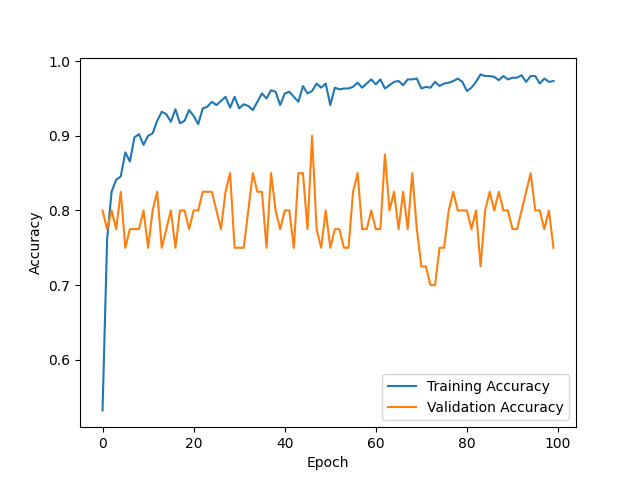
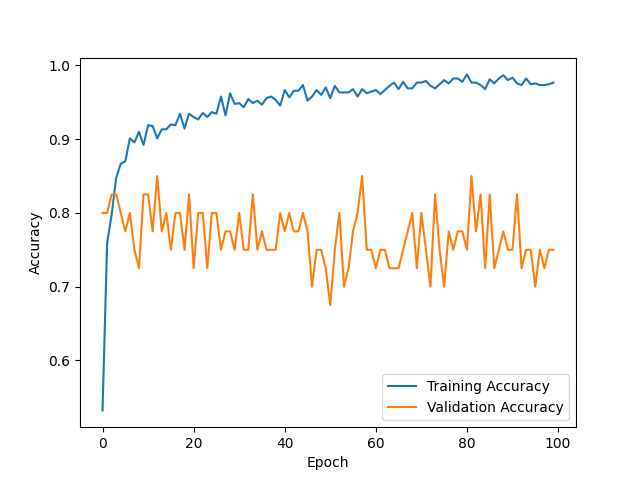
updated models and visualizations

diff --git a/a1_cnn.py b/a1_cnn.py
@@ -4,11 +4,12 @@ import tensorflow as tf
 import tensorflow.keras as kb
 from tensorflow.keras.utils import image_dataset_from_directory
 from tensorflow.keras.models import load_model
-from sklearn.metrics import accuracy_score, confusion_matrix
 from tensorflow.keras.callbacks import EarlyStopping
 from tensorflow.keras.applications import MobileNetV2
 from tensorflow.keras.layers import Input
-
+from sklearn.model_selection import train_test_split
+from sklearn.metrics import accuracy_score, confusion_matrix, classification_report
+from sklearn.utils import class_weight
 import seaborn as sns
 import matplotlib.pyplot as plt
 import os
@@ -19,20 +20,20 @@ warnings.filterwarnings('ignore')
 
 # load train and test datasets
 x_train = image_dataset_from_directory(
-    '/app/rundir/assignment1/jellyfish_dataset/Train_Test_Valid/Train',
+    '/app/rundir/cpsc542_assignment1/jellyfish_dataset/Train_Test_Valid/Train',
     image_size=(128, 128),
     label_mode='int',
     batch_size=32,
     shuffle=True)
 
 x_test = image_dataset_from_directory(
-    '/app/rundir/assignment1/jellyfish_dataset/Train_Test_Valid/test',
+    '/app/rundir/cpsc542_assignment1/jellyfish_dataset/Train_Test_Valid/test',
     image_size=(128, 128),
     label_mode='int',
     batch_size=32,
-    shuffle=True)
+    shuffle=False)
 
-# Data Augmentation
+# data Augmentation
 data_augmentation = tf.keras.Sequential([
     tf.keras.layers.experimental.preprocessing.RandomFlip('horizontal'),
     tf.keras.layers.experimental.preprocessing.RandomRotation(0.2),
@@ -46,15 +47,21 @@ def preprocess_data(x, y):
 x_train = x_train.map(preprocess_data)
 x_test = x_test.map(preprocess_data)
 
+X_train, y_train = np.concatenate([x for x, y in x_train], axis=0), np.concatenate([y for x, y in x_train], axis=0)
+X_test, y_test = np.concatenate([x for x, y in x_test], axis=0), np.concatenate([y for x, y in x_test], axis=0)
+
+# train-test split
+X_train, X_val, y_train, y_val = train_test_split(X_train, y_train, test_size=0.2, random_state=42)
+
 # ----- CNN (Deep Learning Model) -----
 
-# Use MobileNetV2 as base model
+# use MobileNetV2 as base model for transfer learning
 base_model = MobileNetV2(include_top=False, input_tensor=Input(shape=(128, 128, 3)))
 
-# Freeze the layers of the base model
+# freeze the layers of the base model
 base_model.trainable = False
 
-# Add custom layers on top of MobileNetV2
+# add custom layers on top of MobileNetV2
 cnn = kb.Sequential([
     base_model,
     kb.layers.GlobalAveragePooling2D(),
@@ -64,43 +71,93 @@ cnn = kb.Sequential([
     kb.layers.Dense(6, activation='softmax')
 ])
 
-# Compile the model with an initial learning rate
+# compile the model with an initial learning rate
 initial_learning_rate = 0.001
 optimizer = tf.keras.optimizers.Adam(learning_rate=initial_learning_rate)
 cnn.compile(loss="categorical_crossentropy", optimizer=optimizer, metrics=["accuracy"])
 
-# Class Weighting
-# class_weights = {0: 1.0, 1: 1.0, 2: 1.0, 3: 1.0, 4: 1.0, 5: 1.0}
-
-# Train the model with early stopping
-early_stop = EarlyStopping(monitor='val_loss', patience=5, restore_best_weights=True)
+# train the model with early stopping
+# early_stop = EarlyStopping(monitor='val_loss', patience=5, restore_best_weights=True)
+early_stop = EarlyStopping(monitor='val_loss', patience=5)
 history = cnn.fit(x_train, batch_size=32, epochs=100, validation_data=x_test)
 
-# Evaluate the model on the test set
-# test_loss, test_accuracy = cnn.evaluate(x_test)
-# print("CNN Accuracy:", test_accuracy)
-
-# Plot training history
+# plot training history
 plt.plot(history.history['accuracy'], label='Training Accuracy')
 plt.plot(history.history['val_accuracy'], label='Validation Accuracy')
 plt.xlabel('Epoch')
 plt.ylabel('Accuracy')
 plt.legend()
-plt.savefig('accuracy_cnn')
+plt.savefig('visualizations/cnn/accuracy_cnn')
 
 # cnn.save('cnn_trained.h5')
 # cnn = load_model('cnn_trained.h5')
 
-y_pred = cnn.predict(x_test).argmax(axis=1)
-y_true = np.concatenate([y for x, y in x_test], axis=0).argmax(axis=1)
+# confusion matrices
+classes = ['Barrel', 'Blue', 'Compass', 'Lion\'s Mane', 'Mauve Stinger', 'Moon']
 
-# accuracy = accuracy_score(y_true, y_pred)
-# print('CNN Accuracy:', accuracy)
+# training confusion matrix
+y_pred_probs_train = cnn.predict(X_train)
+y_pred_labels_train = np.argmax(y_pred_probs_train, axis=1)
+y_true = np.argmax(y_train, axis=1)
 
-cm = confusion_matrix(y_true, y_pred)
-plt.figure(figsize=(10, 8))
-sns.heatmap(cm, annot=True, cmap='Blues', fmt='g', cbar=False)
+cm = confusion_matrix(y_true, y_pred_labels_train)
+weights = class_weight.compute_sample_weight('balanced', y_true)
+cm_norm = cm.astype('float') / cm.sum(axis=1)[:, np.newaxis]
+
+plt.figure(figsize=(10,8))
+sns.heatmap(cm_norm, annot=True, fmt='.2f', cmap='Blues', xticklabels=classes, yticklabels=classes)
+plt.title('CNN Training Confusion Matrix')
 plt.xlabel('Predicted')
 plt.ylabel('True')
-plt.title('CNN Confusion Matrix for Test Dataset')
-plt.savefig('cm_cnn_test.png')
+plt.savefig('visualizations/cnn/cm_train_cnn.png')
+
+# test confusion matrix
+y_pred_probs_test = cnn.predict(X_test)
+y_pred_labels_test = np.argmax(y_pred_probs_test, axis=1)
+y_true = np.argmax(y_test, axis=1)
+
+cm = confusion_matrix(y_true, y_pred_labels_test)
+weights = class_weight.compute_sample_weight('balanced', y_true)
+cm_norm = cm.astype('float') / cm.sum(axis=1)[:, np.newaxis]
+
+plt.figure(figsize=(10,8))
+sns.heatmap(cm_norm, annot=True, fmt='.2f', cmap='Blues', xticklabels=classes, yticklabels=classes)
+plt.title('CNN Test Confusion Matrix')
+plt.xlabel('Predicted')
+plt.ylabel('True')
+plt.savefig('visualizations/cnn/cm_test_cnn.png')
+
+label_mapping = {
+    0: 'Barrel',
+    1: 'Blue',
+    2: 'Compass',
+    3: 'Lion\'s Mane',
+    4: 'Mauve Stinger',
+    5: 'Moon'
+}
+
+# get some test images
+images, labels = next(iter(x_test))
+images = images * np.max(images) * 255
+
+# make predictions
+predictions = cnn.predict(images)
+
+# visualize predictions
+fig, axes = plt.subplots(nrows=5, ncols=5, figsize=(15, 15),
+    gridspec_kw={'hspace': 0.5, 'wspace': 0.5})
+
+for i, ax in enumerate(axes.flat):
+    # plot image
+    ax.imshow(images[i].numpy().astype('uint8'))
+    ax.axis('off')
+
+    # set title to predicted class and true class using label mapping
+    pred_class = np.argmax(predictions[i])
+    true_class = np.argmax(labels[i])
+    pred_class_name = label_mapping[pred_class]
+    true_class_name = label_mapping[true_class]
+    ax.set_title(f"Pred: {pred_class_name}\nTrue: {true_class_name}",
+        color=("green" if pred_class == true_class else "red"))
+    
+plt.savefig('visualizations/cnn/vis_cnn.png')

diff --git a/a1_rf.py b/a1_rf.py
@@ -4,27 +4,29 @@ from tensorflow.keras.utils import image_dataset_from_directory
 from sklearn.tree import DecisionTreeClassifier
 from sklearn.ensemble import RandomForestClassifier
 from sklearn.metrics import accuracy_score, precision_score, recall_score, confusion_matrix
+from sklearn.utils import class_weight
 import seaborn as sns
 import matplotlib.pyplot as plt
 import os
 import warnings
+
 os.environ['TF_CPP_MIN_LOG_LEVEL'] = '3'
 warnings.filterwarnings('ignore')
 
 # load train and test datasets
 x_train = image_dataset_from_directory(
-    '/app/rundir/assignment1/jellyfish_dataset/Train_Test_Valid/Train',
+    '/app/rundir/cpsc542_assignment1/jellyfish_dataset/Train_Test_Valid/Train',
     image_size=(128, 128),
     label_mode='int',
     batch_size=32,
-    shuffle=True)
+    shuffle=False)
 
 x_test = image_dataset_from_directory(
-    '/app/rundir/assignment1/jellyfish_dataset/Train_Test_Valid/test',
+    '/app/rundir/cpsc542_assignment1/jellyfish_dataset/Train_Test_Valid/test',
     image_size=(128, 128),
     label_mode='int',
     batch_size=32,
-    shuffle=True)
+    shuffle=False)
 
 # ----- Random Forest (Non Deep Learning Model) -----
 # extract images and labels from datasets
@@ -84,17 +86,30 @@ print('Random Forest Test Accuracy: ', accuracy_test)
 print('Random Forest Model Precision: ', precision)
 print('Random Forest Model Recall: ', recall)
 
-# get true labels for test dataset
-y_true = y_test
+# confusion matrices
+classes = ['Barrel', 'Blue', 'Compass', 'Lion\'s Mane', 'Mauve Stinger', 'Moon']
 
-# confusion matrix
-cm = confusion_matrix(y_true, y_pred)
-plt.figure(figsize=(10, 8))
-sns.heatmap(cm, annot=True, cmap='Blues', fmt='g', cbar=False)
+# train confusion matrix
+cm = confusion_matrix(y_train, rf.predict(X_train_flat))
+weights = class_weight.compute_sample_weight('balanced', y_train)
+cm_norm = cm.astype('float') / cm.sum(axis=1)[:, np.newaxis]
+plt.figure(figsize=(10,8))
+sns.heatmap(cm, annot=True, fmt='.2f', cmap='Blues', xticklabels=classes, yticklabels=classes)
+plt.title('RF Test Confusion Matrix')
 plt.xlabel('Predicted')
 plt.ylabel('True')
-plt.title('Random Forest Confusion Matrix')
-plt.savefig('cm_rf.png')
+plt.savefig('visualizations/rf/cm_train_rf.png')
+
+# test confusion matrix
+cm = confusion_matrix(y_test, y_pred)
+weights = class_weight.compute_sample_weight('balanced', y_test)
+cm_norm = cm.astype('float') / cm.sum(axis=1)[:, np.newaxis]
+plt.figure(figsize=(10,8))
+sns.heatmap(cm, annot=True, fmt='.2f', cmap='Blues', xticklabels=classes, yticklabels=classes)
+plt.title('RF Test Confusion Matrix')
+plt.xlabel('Predicted')
+plt.ylabel('True')
+plt.savefig('visualizations/rf/cm_test_rf.png')
 
 # visualize predictions
 label_mapping = {
@@ -120,6 +135,7 @@ for i, ax in enumerate(axes.flat):
     # set title to predicted class and true class
     pred_class = y_pred_names[i]
     true_class = y_test_names[i]
-    ax.set_title(f"Pred: {pred_class}\nTrue: {true_class}")
+    ax.set_title(f"Pred: {pred_class}\nTrue: {true_class}",
+        color=("green" if pred_class == true_class else "red"))
 
-plt.savefig('vis_rf.png')
+plt.savefig('visualizations/rf/vis_rf.png')
